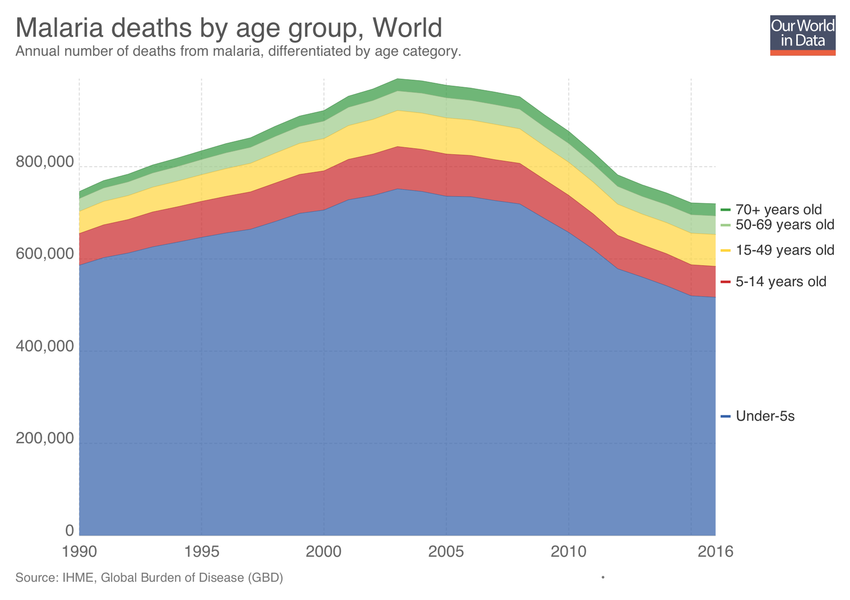
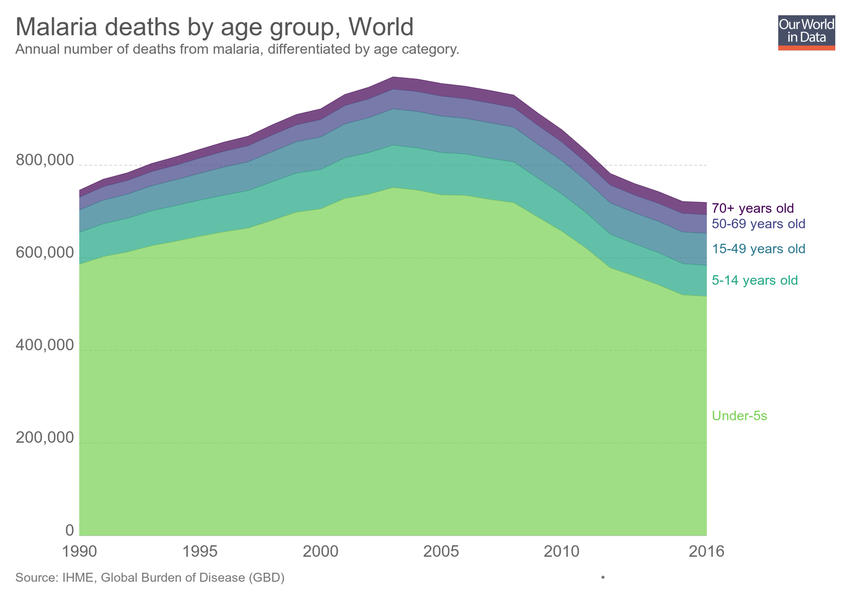
Updating chart malaria-deaths-by-age

diff --git a/grapher/malaria-deaths-by-age.html b/grapher/malaria-deaths-by-age.html
@@ -1,4 +1,4 @@
-<!doctype html><html><head><meta name="viewport" content="width=device-width, initial-scale=1" /><title>Malaria deaths by age group - Our World in Data</title><meta name="description" content="Annual number of deaths from malaria, differentiated by age category." /><link rel="canonical" href="https://ourworldindata.org/grapher/malaria-deaths-by-age" /><meta property="fb:app_id" content="1149943818390250" /><meta property="og:url" content="https://ourworldindata.org/grapher/malaria-deaths-by-age" /><meta property="og:title" content="Malaria deaths by age group" /><meta property="og:description" content="Annual number of deaths from malaria, differentiated by age category." /><meta property="og:image" content="https://ourworldindata.org/grapher/exports/malaria-deaths-by-age.png?v=3" /><meta property="og:image:width" content="850" /><meta property="og:image:height" content="600" /><meta property="og:site_name" content="Our World in Data" /><meta name="twitter:card" content="summary_large_image" /><meta name="twitter:site" content="@OurWorldInData" /><meta name="twitter:creator" content="@OurWorldInData" /><meta name="twitter:title" content="Malaria deaths by age group" /><meta name="twitter:description" content="Annual number of deaths from malaria, differentiated by age category." /><meta name="twitter:image" content="https://ourworldindata.org/grapher/exports/malaria-deaths-by-age.png?v=3" /><style>
+<!doctype html><html><head><meta name="viewport" content="width=device-width, initial-scale=1" /><title>Malaria deaths by age group - Our World in Data</title><meta name="description" content="Annual number of deaths from malaria, differentiated by age category." /><link rel="canonical" href="https://ourworldindata.org/grapher/malaria-deaths-by-age" /><meta property="fb:app_id" content="1149943818390250" /><meta property="og:url" content="https://ourworldindata.org/grapher/malaria-deaths-by-age" /><meta property="og:title" content="Malaria deaths by age group" /><meta property="og:description" content="Annual number of deaths from malaria, differentiated by age category." /><meta property="og:image" content="https://ourworldindata.org/grapher/exports/malaria-deaths-by-age.png?v=4" /><meta property="og:image:width" content="850" /><meta property="og:image:height" content="600" /><meta property="og:site_name" content="Our World in Data" /><meta name="twitter:card" content="summary_large_image" /><meta name="twitter:site" content="@OurWorldInData" /><meta name="twitter:creator" content="@OurWorldInData" /><meta name="twitter:title" content="Malaria deaths by age group" /><meta name="twitter:description" content="Annual number of deaths from malaria, differentiated by age category." /><meta name="twitter:image" content="https://ourworldindata.org/grapher/exports/malaria-deaths-by-age.png?v=4" /><style>
         html, body {
             height: 100%;
             margin: 0;
@@ -20,8 +20,8 @@
         }
     </style><noscript><style>
                     figure { display: none !important; }
-                </style></noscript><link rel="stylesheet" href="https://ourworldindata.org/grapher/assets/commons.bundle.dcbbe53805c487d5e57617b10ac73a8a.css" /><link rel="preload" href="/grapher/data/variables/58778+58788+58782+58784+58786.json?v=3" as="fetch" crossorigin /></head><body class="singleChart"><figure data-grapher-src="/grapher/malaria-deaths-by-age"></figure><noscript id="fallback"><img src="/grapher/exports/malaria-deaths-by-age.svg" /><p>Interactive visualization requires JavaScript</p></noscript><script src="https://cdn.polyfill.io/v2/polyfill.min.js?features=es6,fetch"></script><script src="https://ourworldindata.org/grapher/assets/commons.bundle.0885398ca21a9d555396.js"></script><script src="https://ourworldindata.org/grapher/assets/charts.bundle.0885398ca21a9d555396.js"></script><script>
-        var jsonConfig = {"id":1804,"map":{"projection":"World","colorSchemeLabels":[],"colorSchemeValues":[],"defaultProjection":"World","colorSchemeMinValue":0,"customNumericColors":[],"customCategoryColors":{},"customCategoryLabels":{},"customHiddenCategories":{}},"tab":"chart","slug":"malaria-deaths-by-age","type":"StackedArea","title":"Malaria deaths by age group","xAxis":{"scaleType":"linear"},"yAxis":{"min":0,"scaleType":"linear"},"version":3,"subtitle":"Annual number of deaths from malaria, differentiated by age category.","hasMapTab":false,"originUrl":"https://ourworldindata.org/malaria/","stackMode":"absolute","dimensions":[{"display":{"name":"Under-5s","numDecimalPlaces":0},"property":"y","variableId":58778},{"display":{"name":"70+ years old","numDecimalPlaces":0},"property":"y","variableId":58788},{"display":{"name":"5-14 years old","numDecimalPlaces":0},"property":"y","variableId":58782},{"display":{"name":"15-49 years old","numDecimalPlaces":0},"property":"y","variableId":58784},{"display":{"name":"50-69 years old","numDecimalPlaces":0},"property":"y","variableId":58786}],"sourceDesc":"IHME, Global Burden of Disease (GBD)","hasChartTab":true,"isPublished":true,"selectedData":[{"index":1,"entityId":355},{"index":4,"entityId":355},{"index":3,"entityId":355},{"index":2,"entityId":355},{"index":0,"entityId":355}],"internalNotes":"","addCountryMode":"change-country"};
+                </style></noscript><link rel="stylesheet" href="https://ourworldindata.org/grapher/assets/commons.bundle.dcbbe53805c487d5e57617b10ac73a8a.css" /><link rel="preload" href="/grapher/data/variables/58778+58788+58782+58784+58786.json?v=4" as="fetch" crossorigin /></head><body class="singleChart"><figure data-grapher-src="/grapher/malaria-deaths-by-age"></figure><noscript id="fallback"><img src="/grapher/exports/malaria-deaths-by-age.svg" /><p>Interactive visualization requires JavaScript</p></noscript><script src="https://cdn.polyfill.io/v2/polyfill.min.js?features=es6,fetch"></script><script src="https://ourworldindata.org/grapher/assets/commons.bundle.0885398ca21a9d555396.js"></script><script src="https://ourworldindata.org/grapher/assets/charts.bundle.0885398ca21a9d555396.js"></script><script>
+        var jsonConfig = {"id":1804,"map":{"projection":"World","colorSchemeLabels":[],"colorSchemeValues":[],"colorSchemeMinValue":0,"customNumericColors":[],"customCategoryColors":{},"customCategoryLabels":{},"customHiddenCategories":{}},"tab":"chart","slug":"malaria-deaths-by-age","type":"StackedArea","title":"Malaria deaths by age group","xAxis":{"scaleType":"linear"},"yAxis":{"min":0,"scaleType":"linear"},"version":4,"subtitle":"Annual number of deaths from malaria, differentiated by age category.","hasMapTab":false,"originUrl":"https://ourworldindata.org/malaria/","stackMode":"absolute","dimensions":[{"display":{"name":"Under-5s","numDecimalPlaces":0},"property":"y","variableId":58778},{"display":{"name":"70+ years old","numDecimalPlaces":0},"property":"y","variableId":58788},{"display":{"name":"5-14 years old","numDecimalPlaces":0},"property":"y","variableId":58782},{"display":{"name":"15-49 years old","numDecimalPlaces":0},"property":"y","variableId":58784},{"display":{"name":"50-69 years old","numDecimalPlaces":0},"property":"y","variableId":58786}],"sourceDesc":"IHME, Global Burden of Disease (GBD)","hasChartTab":true,"isPublished":true,"selectedData":[{"index":1,"entityId":355},{"index":4,"entityId":355},{"index":3,"entityId":355},{"index":2,"entityId":355},{"index":0,"entityId":355}],"internalNotes":"","addCountryMode":"change-country","baseColorScheme":"Viridis","invertColorScheme":true};
         var figure = document.getElementsByTagName("figure")[0];
         try {
             window.App = {};
